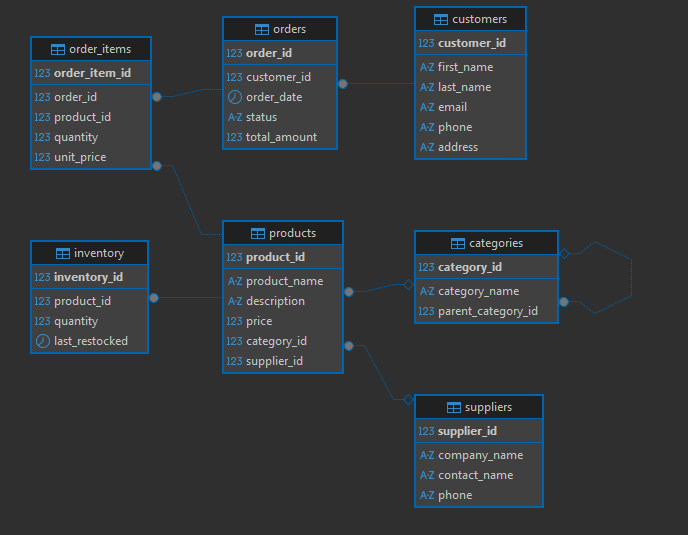
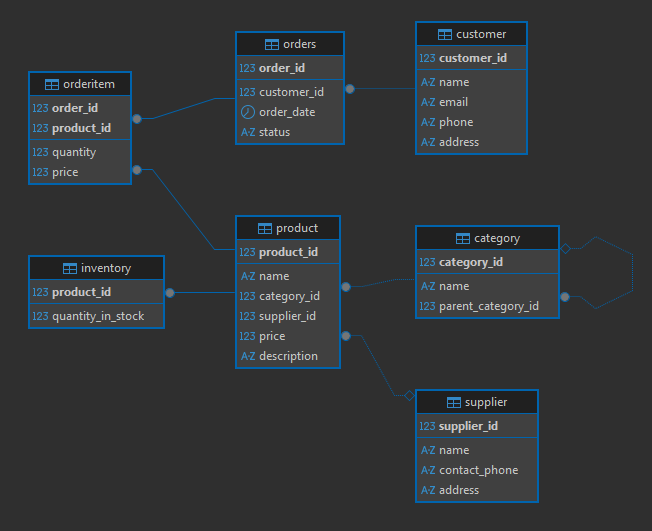
fix database

diff --git a/README.md b/README.md
@@ -6,15 +6,16 @@
 
 ## Концептуальная модель база данных:
 
-| Сущность | Описание | Ключевые атрибуты |
-|----------|-----------|-------------------|
-| **👥 Customers** | Зарегистрированные клиенты магазина | customer_id, first_name, last_name, email, phone, address |
-| **📦 Products** | Товары электроники в каталоге | product_id, product_name, description, price, category_id, supplier_id |
-| **🏷 Categories** | Категории и подкатегории товаров | category_id, category_name, parent_category_id |
-| **🏭 Suppliers** | Поставщики и производители | supplier_id, company_name, contact_name, phone |
-| **🛒 Orders** | Заказы клиентов | order_id, customer_id, order_date, status, total_amount |
-| **📋 Order_Items** | Позиции в заказах | order_item_id, order_id, product_id, quantity, unit_price |
-| **📊 Inventory** | Складские остатки товаров | inventory_id, product_id, quantity, last_restocked |
+| Сущность      | Ключевые атрибуты                     | Описание                            |
+| ------------- | ------------------------------------- | ----------------------------------- |
+| **Category**  | category_id, name                     | Категория товаров                   |
+| **Supplier**  | supplier_id, name                     | Поставщик товаров                   |
+| **Product**   | product_id, name, price               | Товар интернет-магазина             |
+| **Customer**  | customer_id, name, email              | Клиент магазина                     |
+| **Order**     | order_id, order_date, status          | Заказ, создаваемый клиентом         |
+| **OrderItem** | order_id, product_id, quantity, price | Позиция товара в заказе             |
+| **Inventory** | product_id, quantity_in_stock         | Текущее количество товара на складе |
+
 
 ## Логическая модель базы данных:
 ![Изображение](https://raw.githubusercontent.com/ImShef/Online-Store/refs/heads/main/PhysModel/diagramm.png "Диаграмма")
